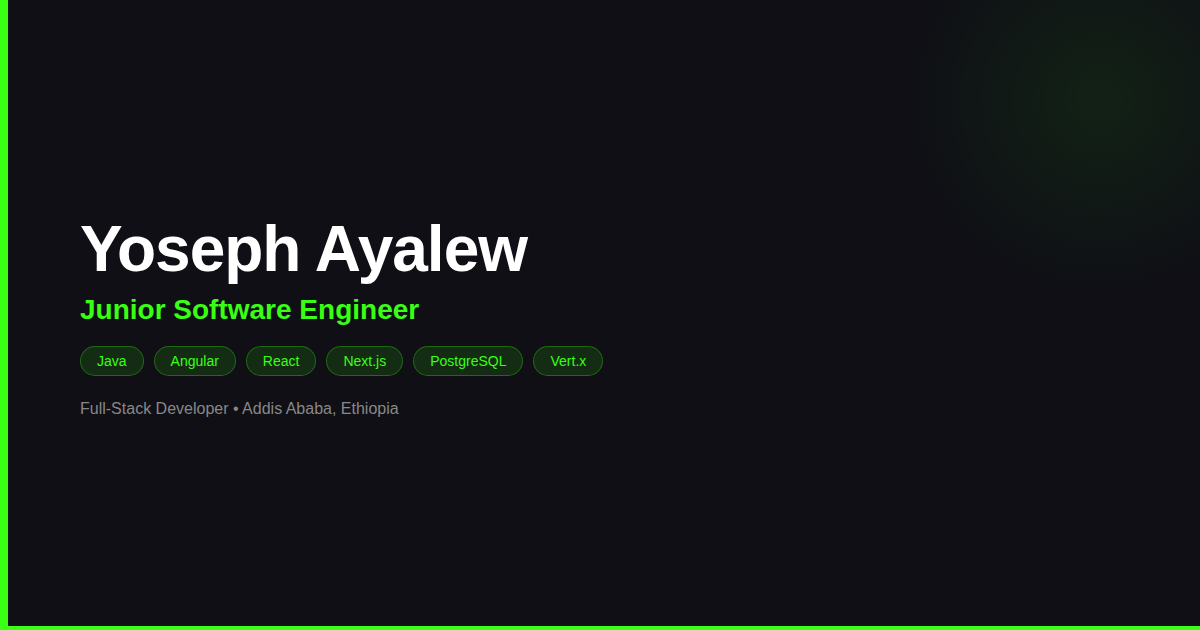
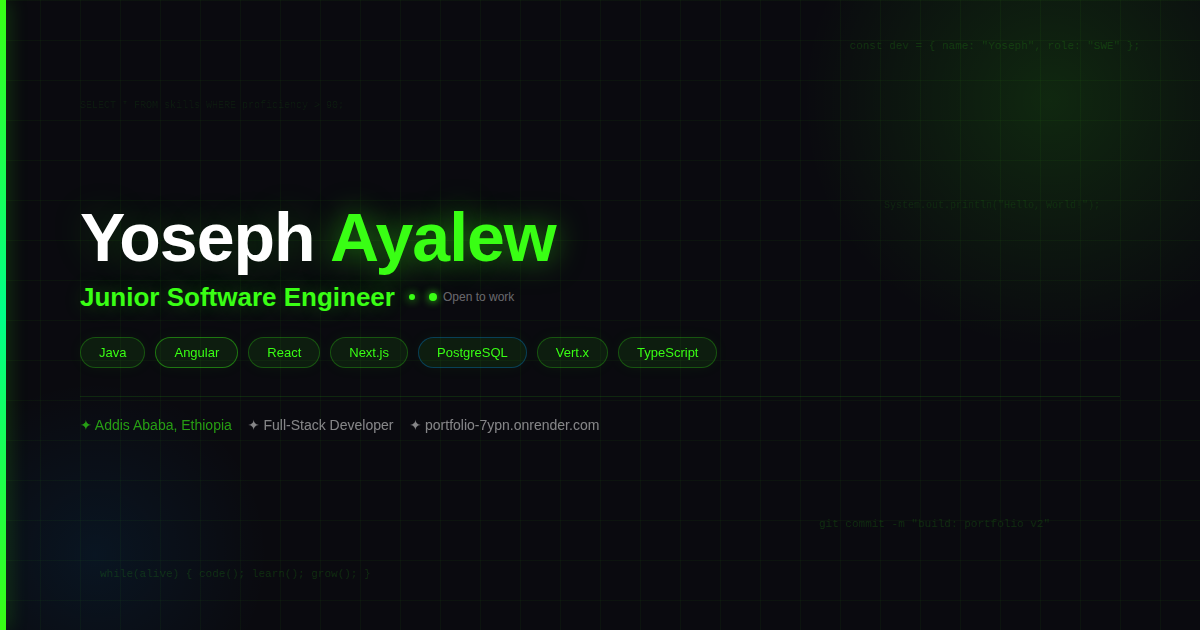
feat: tech-themed OG thumbnail with grid, code lines, glow effects

diff --git a/scripts/generate-og.js b/scripts/generate-og.js
@@ -9,7 +9,7 @@ const html = `<!DOCTYPE html>
   * { margin: 0; padding: 0; box-sizing: border-box; }
   body {
     width: 1200px; height: 630px;
-    background: #0f0f15;
+    background: #0a0a0f;
     font-family: 'Segoe UI', 'Helvetica Neue', Arial, sans-serif;
     display: flex;
     flex-direction: column;
@@ -18,22 +18,96 @@ const html = `<!DOCTYPE html>
     position: relative;
     overflow: hidden;
   }
-  .accent-bar { position: absolute; top: 0; left: 0; width: 8px; height: 100%; background: #39ff14; }
-  .accent-line { position: absolute; bottom: 0; left: 0; right: 0; height: 4px; background: #39ff14; }
-  h1 { font-size: 64px; font-weight: 800; color: #fff; margin-bottom: 8px; letter-spacing: -1px; }
-  .title { font-size: 28px; color: #39ff14; font-weight: 600; margin-bottom: 20px; }
-  .tags { display: flex; gap: 10px; flex-wrap: wrap; }
-  .tag { padding: 6px 16px; border-radius: 20px; font-size: 14px; font-weight: 500; background: rgba(57, 255, 20, 0.12); color: #39ff14; border: 1px solid rgba(57, 255, 20, 0.3); }
-  .subtitle { font-size: 16px; color: #888; margin-top: 24px; }
-  .glow { position: absolute; right: -100px; top: -100px; width: 400px; height: 400px; border-radius: 50%; background: radial-gradient(circle, rgba(57,255,20,0.08) 0%, transparent 70%); }
+
+  /* Grid background */
+  .grid {
+    position: absolute; inset: 0;
+    background-image:
+      linear-gradient(rgba(57,255,20,0.04) 1px, transparent 1px),
+      linear-gradient(90deg, rgba(57,255,20,0.04) 1px, transparent 1px);
+    background-size: 40px 40px;
+  }
+
+  /* Glowing orbs */
+  .orb1 { position: absolute; top: -150px; right: -100px; width: 500px; height: 500px; border-radius: 50%;
+    background: radial-gradient(circle, rgba(57,255,20,0.12) 0%, transparent 70%); }
+  .orb2 { position: absolute; bottom: -100px; left: -80px; width: 350px; height: 350px; border-radius: 50%;
+    background: radial-gradient(circle, rgba(0,150,255,0.08) 0%, transparent 70%); }
+
+  /* Vertical accent bar */
+  .accent-bar { position: absolute; top: 0; left: 0; width: 6px; height: 100%; background: linear-gradient(180deg, #39ff14, #00ff88, #39ff14);
+    box-shadow: 0 0 20px rgba(57,255,20,0.4); }
+
+  /* Floating code lines */
+  .code-line { position: absolute; font-family: 'Courier New', monospace; font-size: 11px; color: rgba(57,255,20,0.15); letter-spacing: 0; white-space: nowrap; }
+  .cl1 { top: 40px; right: 60px; }
+  .cl2 { bottom: 50px; left: 100px; }
+  .cl3 { top: 200px; right: 100px; font-size: 10px; color: rgba(57,255,20,0.1); }
+  .cl4 { bottom: 100px; right: 150px; }
+  .cl5 { top: 100px; left: 80px; font-size: 10px; color: rgba(57,255,20,0.08); }
+
+  /* Name */
+  h1 {
+    font-size: 68px; font-weight: 800; color: #fff;
+    margin-bottom: 6px; letter-spacing: -1px; position: relative; z-index: 2;
+    text-shadow: 0 0 40px rgba(57,255,20,0.2);
+  }
+  h1 .highlight { color: #39ff14; text-shadow: 0 0 30px rgba(57,255,20,0.5); }
+
+  /* Title */
+  .title-row { display: flex; align-items: center; gap: 14px; margin-bottom: 24px; position: relative; z-index: 2; }
+  .title {
+    font-size: 26px; color: #39ff14; font-weight: 600;
+    text-shadow: 0 0 20px rgba(57,255,20,0.3);
+  }
+  .title-dot { width: 6px; height: 6px; border-radius: 50%; background: #39ff14; box-shadow: 0 0 10px #39ff14; animation: pulse 2s infinite; }
+
+  /* Tags */
+  .tags { display: flex; gap: 10px; flex-wrap: wrap; position: relative; z-index: 2; margin-bottom: 28px; }
+  .tag {
+    padding: 7px 18px; border-radius: 20px; font-size: 13px; font-weight: 500;
+    background: rgba(57,255,20,0.08); color: #39ff14;
+    border: 1px solid rgba(57,255,20,0.25);
+    box-shadow: 0 0 15px rgba(57,255,20,0.05);
+  }
+  .tag:nth-child(2) { border-color: rgba(57,255,20,0.4); }
+  .tag:nth-child(5) { border-color: rgba(0,150,255,0.3); }
+
+  /* Bottom bar */
+  .bottom-bar {
+    position: relative; z-index: 2; display: flex; align-items: center; gap: 16px;
+    padding-top: 20px; border-top: 1px solid rgba(57,255,20,0.12);
+  }
+  .bottom-bar span { font-size: 14px; color: rgba(255,255,255,0.5); }
+  .bottom-bar .loc { color: rgba(57,255,20,0.6); }
+
+  /* Status dot */
+  .status { display: flex; align-items: center; gap: 6px; font-size: 12px; color: rgba(255,255,255,0.4); }
+  .status-dot { width: 8px; height: 8px; border-radius: 50%; background: #39ff14; box-shadow: 0 0 8px #39ff14; }
+
+  @keyframes pulse { 0%,100% { opacity: 1; } 50% { opacity: 0.4; } }
 </style>
 </head>
 <body>
+  <div class="grid"></div>
+  <div class="orb1"></div>
+  <div class="orb2"></div>
   <div class="accent-bar"></div>
-  <div class="accent-line"></div>
-  <div class="glow"></div>
-  <h1>Yoseph Ayalew</h1>
-  <div class="title">Junior Software Engineer</div>
+
+  <div class="code-line cl1">const dev = { name: &quot;Yoseph&quot;, role: &quot;SWE&quot; };</div>
+  <div class="code-line cl2">while(alive) { code(); learn(); grow(); }</div>
+  <div class="code-line cl3">System.out.println(&quot;Hello, World!&quot;);</div>
+  <div class="code-line cl4">git commit -m &quot;build: portfolio v2&quot;</div>
+  <div class="code-line cl5">SELECT * FROM skills WHERE proficiency &gt; 90;</div>
+
+  <h1>Yoseph <span class="highlight">Ayalew</span></h1>
+
+  <div class="title-row">
+    <span class="title">Junior Software Engineer</span>
+    <span class="title-dot"></span>
+    <span class="status"><span class="status-dot"></span> Open to work</span>
+  </div>
+
   <div class="tags">
     <span class="tag">Java</span>
     <span class="tag">Angular</span>
@@ -41,8 +115,14 @@ const html = `<!DOCTYPE html>
     <span class="tag">Next.js</span>
     <span class="tag">PostgreSQL</span>
     <span class="tag">Vert.x</span>
+    <span class="tag">TypeScript</span>
   </div>
-  <div class="subtitle">Full-Stack Developer &bull; Addis Ababa, Ethiopia</div>
+
+  <div class="bottom-bar">
+    <span class="loc">✦ Addis Ababa, Ethiopia</span>
+    <span>✦ Full-Stack Developer</span>
+    <span>✦ portfolio-7ypn.onrender.com</span>
+  </div>
 </body>
 </html>`;
 
